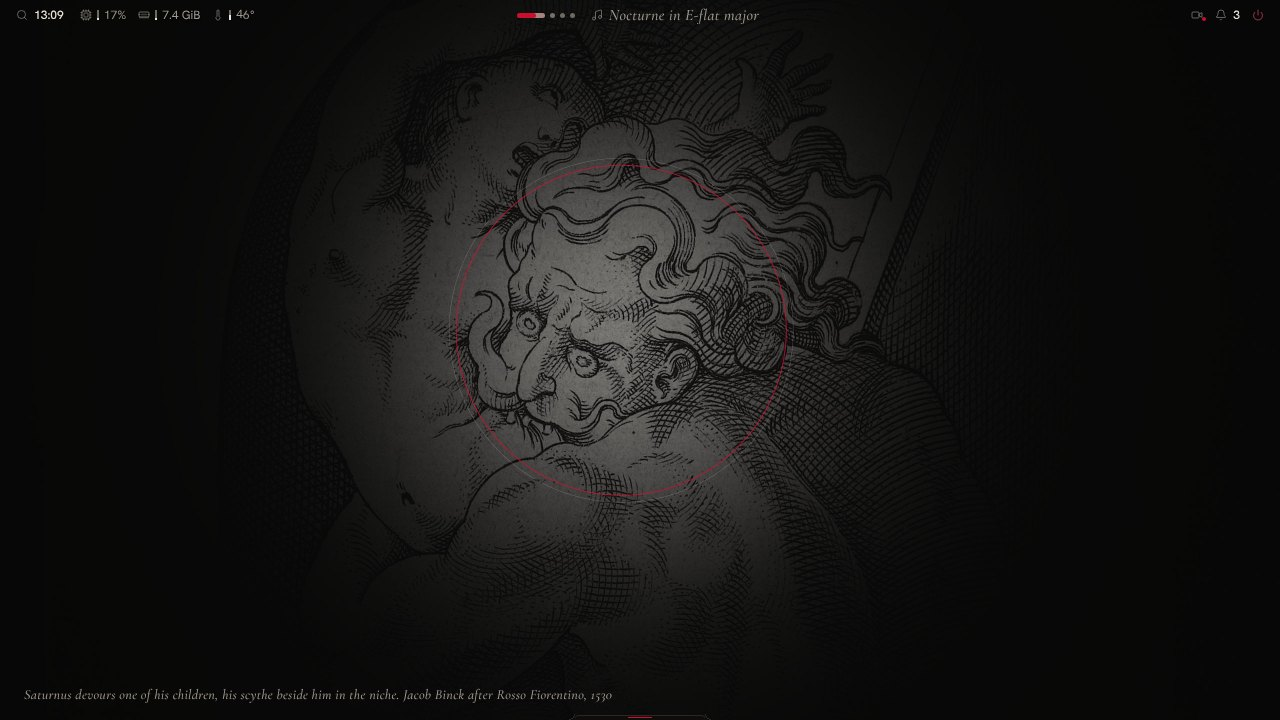
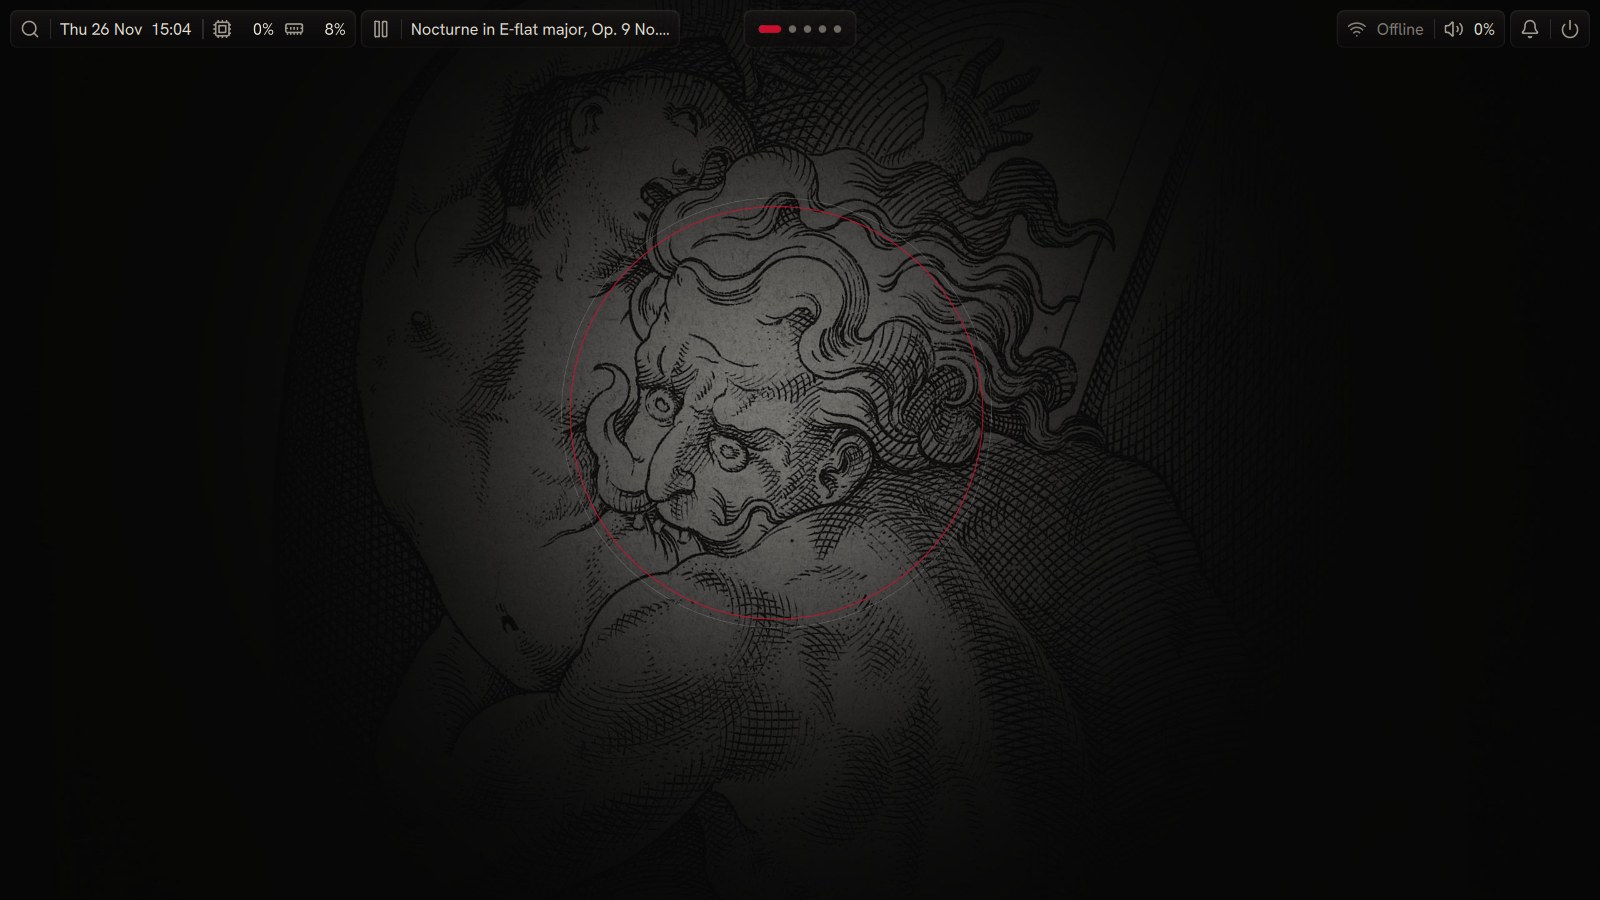
docs: refresh the pictures of the README with the shell
The screens are renderings of this branch's shell now, the banner has no caption and an unspaced
motto, and the README no longer describes what the pictures show. Version 1.2.0; the Store is
this branch's, not main's.

diff --git a/README.md b/README.md
@@ -3,7 +3,7 @@
 Strix is a NixOS-based system for people coming from Windows: NixOS without the terminal. You create the install stick on Windows with one click, install apps from the Store with one click. The proof of concept keeps the desktop simple: one theme, a top bar, Search, Settings with only what is needed, the Store and the lock screen.
 
 ```
-Version :: 0.1.0, the desktop comes with 0.2.0
+Version :: 1.2.0
 Base :: NixOS unstable
 Desktop :: Hyprland, the shell in Quickshell
 Theme :: Saturnus, from StrixUI (main has all eight gods)
@@ -12,25 +12,16 @@ State :: work in progress, tested on an old laptop
 
 ## The look
 
-![The desktop under Saturnus](docs/images/desktop.jpg)
+![Desktop](docs/images/desktop.jpg)
 
-*Saturnus devours one of his children, his scythe beside him in the niche. Jacob Binck after Rosso Fiorentino, 1530*
-
-The look comes from [StrixUI](https://github.com/liviosysctl/StrixUI), the design system of Strix: near-black surfaces, an old engraving as the ground, one accent colour that is used sparingly, floating surfaces of smoked glass, an old-style serif for titles beside a plain grotesque for everything else. The proof of concept has a single theme, Saturnus; nothing changes by itself.
+The look comes from [StrixUI](https://github.com/liviosysctl/StrixUI), the design system of Strix. The proof of concept has a single theme, Saturnus; nothing changes by itself.
 
 | | |
 |---|---|
-| ![The lock screen](docs/images/lock-screen.jpg) | ![Search](docs/images/search.jpg) |
-| *The lock screen* | *Search, one field for everything* |
+| ![Lock screen](docs/images/lock-screen.jpg) | ![Search](docs/images/search.jpg) |
+| ![Settings](docs/images/settings.jpg) | ![Boot splash](docs/images/boot-splash.jpg) |
 
-### More screens
-
-| | |
-|---|---|
-| ![The terminal](docs/images/terminal.jpg) | ![The boot splash](docs/images/boot-splash.jpg) |
-| *The terminal, Ghostty in the theme's colours* | *The boot splash* |
-
-These are renderings of the design from StrixUI; the shell in this repository is built from the same components. Sources and licences of every picture are in [docs/images/README.md](docs/images/README.md).
+Sources and licences of every picture are in [docs/images/README.md](docs/images/README.md).
 
 ## Branches
 
@@ -53,7 +44,7 @@ These are renderings of the design from StrixUI; the shell in this repository is
 | `themes/` | `default.nix`, the theme a new installation starts with (`saturnus`). `lib/builtin-themes.nix` takes only Saturnus from [StrixUI](https://github.com/liviosysctl/StrixUI), a flake input. [themes/README.md](themes/README.md) describes the format and the theme repositories. |
 | `packages/theme-engine/` | The theme engine in Rust: reads and checks themes, switches them at runtime, fetches and checks theme repositories, writes the colours for Hyprland, Ghostty and GTK. |
 | `packages/search/`, `modules/search.nix` | The search service behind Search: apps, the actions of `menu.toml`, every row of Settings, commands; it also makes the Hyprland keys and keeps the user's own keys. |
-| `packages/store/`, `modules/store.nix` | The Store (`main` only): an index of the channel's packages, search, install and remove through `strix-apps`, or try in a shell with `strix-shell`; proprietary apps ask first. |
+| `packages/store/`, `modules/store.nix` | The Store (this branch only): an index of the channel's packages, search, install and remove through `strix-apps`, or try in a shell with `strix-shell`; proprietary apps ask first. |
 | `packages/ui/`, `modules/ui.nix` | The design system of StrixUI on the machine: the QML module for Quickshell, the wallpapers, the fonts. |
 | `modules/desktop.nix` | The desktop: Hyprland as a UWSM session, the login of Strix under greetd (or tuigreet), PipeWire, a few apps, the shell as a user service, hypridle, and the session's theme service, which writes the colours for Hyprland and Ghostty. |
 | `shell/hypr/hyprland.lua` | The Hyprland configuration (Lua, Hyprland 0.55 and later): measures and motion of StrixUI; it requires `machine.lua`, `theme.lua` and `bindings.lua`, which Nix and the theme engine write. |

diff --git a/docs/images/README.md b/docs/images/README.md
@@ -1,30 +1,18 @@
 # Images of the README
 
-| File | What | Source |
-|---|---|---|
-| `banner.jpg` | The wordmark, the motto, one line on what Strix is, the owl in the colours of Saturnus and the dark plate of Saturnus | Drawn for this repository from StrixUI's fonts and wallpaper; the owl from the theme engine (`theme render owl saturnus`) |
-| `desktop.jpg` | The desktop with the top bar, Saturnus | Rendering `docs/renders/Desktop.png` of [StrixUI](https://github.com/liviosysctl/StrixUI) |
-| `lock-screen.jpg` | The lock screen, Saturnus | Rendering `docs/renders/LockScreen.png` of StrixUI |
-| `search.jpg` | Search | Rendering `docs/renders/Search.png` of StrixUI |
-| `theme-picker.jpg` | The theme picker | Rendering `docs/renders/ThemePicker.png` of StrixUI |
-| `gods.jpg` | The eight god plates, dark and light in turn | Rendering `docs/renders/Themes-plates.jpg` of StrixUI |
-| `dock.jpg` | The dock | Rendering `docs/renders/EdgeDock.png` of StrixUI |
-| `terminal.jpg` | The terminal | Rendering `docs/renders/Terminal.png` of StrixUI |
-| `cheat-sheet.jpg` | The cheat sheet | Rendering `docs/renders/Cheatsheet.png` of StrixUI |
-| `settings-hotkeys.jpg` | Settings, hotkeys | Rendering `docs/renders/SettingsHotkeys.png` of StrixUI |
-| `boot-splash.jpg` | The boot splash | Rendering `docs/renders/BootSplash.png` of StrixUI |
+| File | Source |
+|---|---|
+| `banner.jpg` | Drawn for this repository from StrixUI's fonts and wallpaper; the owl from the theme engine (`theme render owl saturnus:dark`) |
+| `desktop.jpg`, `lock-screen.jpg`, `search.jpg`, `settings.jpg` | The shell of this branch (`shell/qml`), run without a screen on sway with Quickshell and the search service |
+| `boot-splash.jpg` | Rendering `docs/renders/BootSplash.png` of [StrixUI](https://github.com/liviosysctl/StrixUI) |
 
-The renderings come from StrixUI at commit `7b95a13`. They show the design; the shell in `shell/qml` is built from the same components.
-
-## The engravings
-
-Every plate is an engraving from a public collection, printed in neutral ink and paper with one ring in the colour of its theme. The full list with titles, engravers, dates and object numbers is in StrixUI's `design-system/assets/Wallpapers/README.md`.
+## The engraving
 
 | Plate | Engraving | Licence |
 |---|---|---|
-| Saturnus (banner, desktop, lock screen and the other screens) | Jacob Binck after Giovanni Jacopo Caraglio after Rosso Fiorentino, Saturnus, from the Gods in Niches, 1530. Rijksmuseum RP-P-1951-178A | Public domain |
-| Janus (`gods.jpg`, theme picker) | Robert van Audenaerd after Carlo Maratta, Janus opens the door of the year, 1685 to 1723. Rijksmuseum RP-P-OB-67.432 | Public domain |
-| The other gods (`gods.jpg`, theme picker) | Jacob Binck after Giovanni Jacopo Caraglio after Rosso Fiorentino, from the Gods in Niches, Rijksmuseum, listed in StrixUI | Public domain |
+| Saturnus (every picture) | Jacob Binck after Giovanni Jacopo Caraglio after Rosso Fiorentino, Saturnus, from the Gods in Niches, 1530. Rijksmuseum RP-P-1951-178A | Public domain |
+
+The full list with titles, engravers, dates and object numbers is in StrixUI's `design-system/assets/Wallpapers/README.md`.
 
 ## The fonts in the banner
 
